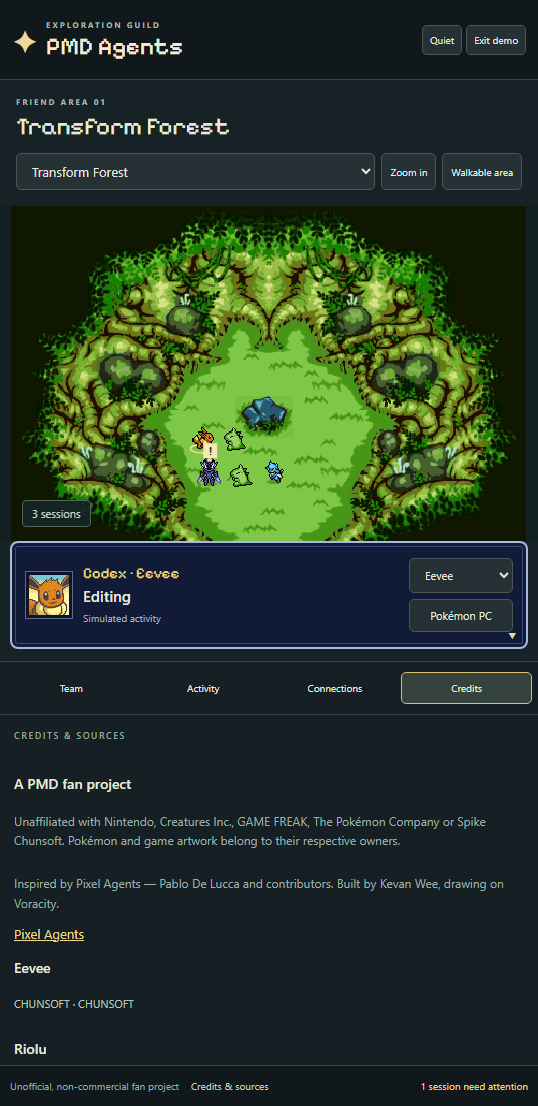
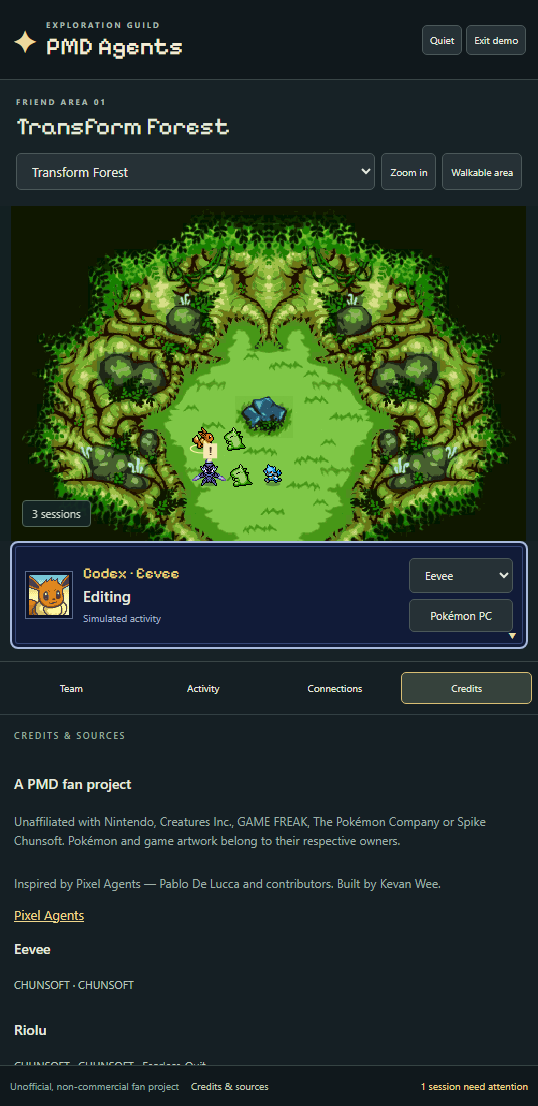
Make PMD Agents self-contained
Download maps and the font from pinned public sources verified by hash,
remove references to the owner's other sites and a local machine path.

diff --git a/src/webview/app.ts b/src/webview/app.ts
@@ -214,7 +214,7 @@ function render() {
  }else{
   sidebar.append(node('div','CREDITS & SOURCES','section-label'),node('h3','A PMD fan project'));
   sidebar.append(node('p','Unaffiliated with Nintendo, Creatures Inc., GAME FREAK, The Pokémon Company or Spike Chunsoft. Pokémon and game artwork belong to their respective owners.','muted'));
-  sidebar.append(node('p','Inspired by Pixel Agents — Pablo De Lucca and contributors. Built by Kevan Wee, drawing on Voracity.','muted'));
+  sidebar.append(node('p','Inspired by Pixel Agents — Pablo De Lucca and contributors. Built by Kevan Wee.','muted'));
   const link=document.createElement('a');link.href='https://github.com/pixel-agents-hq/pixel-agents';link.textContent='Pixel Agents';sidebar.append(link);
   for(const s of [...(pack?.sprites||[]),...(pack?.dummy?[pack.dummy]:[])])sidebar.append(node('h3',s.name),node('p',[...s.artists,...(s.portraitCredits||[])].join(' · '),'credit-text'));
   sidebar.append(node('p','SpriteCollab: individual asset terms are preserved in the local pack. Original game sprites are not automatically covered by the fan-art licence.','muted'));

diff --git a/scripts/import-assets.py b/scripts/import-assets.py
@@ -9,7 +9,6 @@ RAW = f"https://raw.githubusercontent.com/PMDCollab/SpriteCollab/{REV}/"
 ROOT = Path(__file__).resolve().parent.parent
 parser = argparse.ArgumentParser()
 parser.add_argument("--output", default=str(ROOT / "assets/local"))
-parser.add_argument("--voracity", default=str(ROOT.parent / "voracity"))
 args = parser.parse_args()
 out = Path(args.output).resolve()
 out.mkdir(parents=True, exist_ok=True)
@@ -82,21 +81,31 @@ for item in roster+[{"name":"Substitute","number":"0000/0001","element":"normal"
     except Exception as error:
         raise RuntimeError(f"Portrait provenance unavailable for {species}") from error
     manifest["sprites"].append(entry)
-source=Path(args.voracity)
-mapfile=source/"public/pmd/thunder-meadow.png"
-if not mapfile.exists(): raise SystemExit("Supply --voracity with the existing local Voracity checkout")
-save("maps/thunder-meadow.png",mapfile.read_bytes(),"Voracity public/pmd/thunder-meadow.png; Mystery Dungeon Wiki, original game artwork")
-manifest["maps"].append({"id":"meadow","name":"Thunder Meadow","subtitle":"Guild training ground","file":"maps/thunder-meadow.png","width":456,"height":335,"credit":"Pokémon Mystery Dungeon: Red / Blue Rescue Team · game artwork; local Voracity reference, Wiki attribution; ripper not verified"})
-forest=source/"public/eevee-base"
-forest_source=json.loads((forest/"sources.json").read_text(encoding="utf-8"))
-save("maps/transform-forest.png",(forest/"background.png").read_bytes(),forest_source["backgroundUrl"])
-save("maps/forest-stone.png",(forest/"stone-frames.png").read_bytes(),forest_source["rockFramesUrl"])
-records[-1]["changes"]="Existing Voracity crops of 32 original rock poses from JPEG mirror; not lossless source pixels."
-save("sources/transform-forest.json",(forest/"sources.json").read_bytes(),forest_source["originalListing"])
+# Scenery and font come from pinned public sources; each download is checked against its recorded hash.
+MIRROR="https://pamtre-berry.neocities.org/images/"
+FONT="https://raw.githubusercontent.com/eifetx/Pixelify-Sans/39df74aba80df8157546034b878e8be1eb565ced/"
+def fetch(url, target, sha=None):
+    existing = out / target
+    data = existing.read_bytes() if existing.exists() else urlopen(url, timeout=30).read()
+    if sha and hashlib.sha256(data).hexdigest()!=sha: raise SystemExit(f"Unexpected download for {target}: {url}")
+    return save(target, data, url)
[1 lines of base64/hex data omitted]
+buffer=io.BytesIO();meadow.save(buffer,"PNG")
+save("maps/thunder-meadow.png",buffer.getvalue(),MIRROR+"friend-areas/og/thundermeadow.png")
+records[-1]["changes"]="Cropped to 456x335 (bottom row removed)."
+manifest["maps"].append({"id":"meadow","name":"Thunder Meadow","subtitle":"Guild training ground","file":"maps/thunder-meadow.png","width":456,"height":335,"credit":"Pokémon Mystery Dungeon: Red / Blue Rescue Team · game artwork; Pamtre Berry mirror / Taliax; ripper not verified"})
[2 lines of base64/hex data omitted]
+# The mirror sheet holds 32 poses in a 4x8 grid separated by 1px white lines.
+stone=Image.new("RGB",(54*32,39))
+for frame in range(32): stone.paste(rock.crop((1+55*(frame%4),1+40*(frame//4),55+55*(frame%4),40+40*(frame//4))),(54*frame,0))
+buffer=io.BytesIO();stone.save(buffer,"PNG")
+save("maps/forest-stone.png",buffer.getvalue(),MIRROR+"misc/transformforestrock.jpg")
+records[-1]["changes"]="Crops of 32 original rock poses from JPEG mirror, excluding the white grid; not lossless source pixels."
 manifest["maps"].append({"id":"forest","name":"Transform Forest","subtitle":"Animated evolution stone","file":"maps/transform-forest.png","width":480,"height":312,"credit":"Pokémon Mystery Dungeon: Red / Blue Rescue Team · ripper Toastypk · Pamtre Berry mirror / Taliax; original game artwork",
  "layers":[{"file":"maps/forest-stone.png","x":209,"y":177,"w":54,"h":39,"frames":32,"frameMs":120,"credit":"Toastypk · 32 rock poses from Pamtre Berry JPEG mirror; 120ms playback chosen for this project, original game timing unavailable."}]})
-save("PixelifySans.woff2",(source/"public/fonts/PixelifySans.woff2").read_bytes(),"Voracity / Pixelify Sans Project Authors")
-save("PixelifySans-OFL.txt",(source/"public/fonts/PixelifySans-OFL.txt").read_bytes(),"https://github.com/eifetx/Pixelify-Sans")
[2 lines of base64/hex data omitted]
 get("LICENSE.md")
 manifest["files"]=records
 (out/"manifest.json.tmp").write_text(json.dumps(manifest,indent=2)+"\n",encoding="utf-8")

diff --git a/docs/PLAN.md b/docs/PLAN.md
@@ -75,7 +75,7 @@ The extension opens as a dockable VS Code webview, usable in the bottom panel or
  │                                               Pokémon C           │
  ├───────────────────────────────────────────────────────────────────┤
  │ portrait  Codex · Ceruledge        Editing · connected              │
- │           Voracity · current turn      [Focus session] [Details]    │
+ │           my-project · current turn    [Focus session] [Details]    │
  └───────────────────────────────────────────────────────────────────┘
 ```
 
@@ -86,7 +86,7 @@ This is a layout schematic, not a claim that a game map contains those props.
 - Keyboard roster navigation provides every essential action independently of the canvas. Status changes use a throttled live region. Colour is accompanied by text and icons.
 - Attention roster sorts approvals and questions first. Clicking a bubble navigates to the provider's own approval UI; it never grants approval.
 - Character picker shows species, forms, shiny variants, portraits and available animation capabilities. Start with a verified small roster, then expand through asset packs. Preserve assignments across panel hides, resize, provider events and reconnects.
-- Ship an initial roster candidate list: Eevee, Riolu, Pikachu, Treecko, Fuecoco, Charcadet, Ceruledge and Diancie. Exact inclusion depends on animation and attribution audit; availability in Voracity does not imply complete sets.
+- Ship an initial roster candidate list: Eevee, Riolu, Pikachu, Treecko, Fuecoco, Charcadet, Ceruledge and Diancie. Exact inclusion depends on animation and attribution audit; availability elsewhere does not imply complete sets.
 - Empty state shows an empty guild and “No sessions connected,” with connection setup. Any demonstration actors live behind a conspicuous Demo switch and never mix with real sessions.
 - At narrow widths, the map crops/pans, the roster becomes a drawer, and the details card stacks. Do not shrink every Pokémon into unreadable pixels to fit the whole map.
 - Quiet mode and reduced motion retain statuses and still frames while disabling roaming, attack loops, flashes and camera easing. Sound starts off. No soundtrack in the initial release.
@@ -180,7 +180,7 @@ The webview receives a complete revisioned snapshot on startup, then ordered del
 
 ### Sprite ingestion
 
-Import a pinned, reviewed set of PMD SpriteCollab files and their credit records. Reuse the lessons from Voracity's importers rather than copying assumptions from its small portrait renderer.
+Import a pinned, reviewed set of PMD SpriteCollab files and their credit records. Read native animation metadata rather than assuming fixed frame sizes.
 
 The importer must handle per-animation frame width/height, frame durations, direction rows, `CopyOf` aliases, attack timing markers, and available offset/shadow sheets. Resolve aliases with cycle detection. Confirm the source timing convention and row order against known animations; do not blindly treat a duration as milliseconds.
 
@@ -194,7 +194,7 @@ Start with a small complete roster. Lazy-load selected species and the active ma
 
 An image alone is not a usable world. A map manifest contains native dimensions, ground image/layers, foreground occlusion, walkable polygons or grid, obstacles, entrances/exits, activity anchors, facing at anchors, capacity and camera bounds.
 
-Voracity provides two concrete references:
+Two Red/Blue Rescue Team friend areas serve as the first scenes:
 
 - **Transform Forest (480 × 312):** attractive resting/gathering scene, but the central stone and narrow clearing constrain capacity. Preserve its stone exclusion and original coordinate system.
 - **Thunder Meadow (456 × 335):** open training-study candidate with a large central tree and cliff edges. Preserve the tree obstacle; evaluate capacity before selecting it as the default.
@@ -255,13 +255,13 @@ Estimate only after Phase 0. Integration uncertainty, window attribution and art
 7. Forged/malformed events, wrong tokens, untrusted workspace requests and unsafe asset paths are rejected. Fixtures and exports contain no private prompts or credentials.
 8. All sprite directions and actions render without clipping/jitter; attacks face targets and hit effects align with metadata. Routes never cross trees, walls or cliffs.
 9. 320px/480px-wide side panels and a wide editor view keep controls reachable. Keyboard, zoom, reduced motion and hidden-panel behaviour work.
-10. A release package has complete notices, no unresolved bundled assets, no unrelated Voracity material and no debug data.
+10. A release package has complete notices, no unresolved bundled assets, no unrelated material and no debug data.
 
 Use reducer/adapter unit tests for correctness; replay fixtures for end-to-end state; VS Code integration tests for terminals and window lifecycle; browser tests and actual screenshots for rendering. A browser mock does not prove native chat integration. Maintain a dated manual client/version matrix with pass/fail/limited evidence.
 
 ## 10. Recommended first implementation brief
 
-> Implement Phase 0 in this separate project. Read the plan and preserve the archived repository and Voracity. Build the smallest observer that can report real events from the installed Codex chat, Claude Code chat and current-window terminals without exposing chat content. Test window binding rather than guessing from cwd. In a separate replay view, import one complete PMD Pokémon and one existing local map with collision metadata and provenance, and demonstrate Idle, Walk, Attack and attention. Deliver a support matrix, screenshots, sanitized fixtures and a precise gap list. Do not implement the full editor, dungeon game, task orchestration or public distribution yet.
+> Implement Phase 0 in this separate project. Read the plan and preserve the archived repository. Build the smallest observer that can report real events from the installed Codex chat, Claude Code chat and current-window terminals without exposing chat content. Test window binding rather than guessing from cwd. In a separate replay view, import one complete PMD Pokémon and one existing local map with collision metadata and provenance, and demonstrate Idle, Walk, Attack and attention. Deliver a support matrix, screenshots, sanitized fixtures and a precise gap list. Do not implement the full editor, dungeon game, task orchestration or public distribution yet.
 
 The request that produced this document authorizes archive and planning. This brief makes the next implementation step concrete; it is not a record that Phase 0 has already run.
 

diff --git a/tasks/lessons.md b/tasks/lessons.md
@@ -1,11 +1,11 @@
 # Established direction
 
 - 9 October 2026: The owner rejected The Office and requested its archival and a new, fully planned PMD version. A Pokémon skin over office desks does not satisfy the request.
-- Use authentic PMD assets, maps, movement and actions, following Voracity's visual fidelity. Training dummies, sparring and exploration are appropriate work metaphors.
+- Use authentic PMD assets, maps, movement and actions with faithful visual fidelity. Training dummies, sparring and exploration are appropriate work metaphors.
 - Cover Codex chat, Claude Code chat and terminals belonging to the current VS Code instance. Do not quietly reduce this to agents launched by our own button.
 - Preserve truthful limitations: generic terminals expose coarse activity; supported integrations expose richer events. Unknown activity must remain unknown.
 - Carry forward fan-project disclaimers, source links and relevant individual credits.
-- Keep ongoing work in Voracity and the portfolio untouched. This planning project is separate.
+- PMD Agents is a standalone public project (owner, 10 October 2026). Keep it self-contained: no references to, dependencies on or integration plans for the owner's other sites, in files or in Git history.
 - 9 October 2026, follow-up: “Start building it out then” authorizes implementation. Deliver tested increments; the earlier planning-only scope no longer blocks building.
 - 10 October 2026: The owner sees Eevee standing still during Codex thinking/output. Active work must produce visible, restrained movement even when tool semantics are unavailable; do not leave generic Working in a nearly static idle pose. Keep attention and quiet modes still.
 
@@ -14,16 +14,16 @@
 - 10 October 2026: Working should look like PMD training: attack a Substitute dummy with native animations and visible move/hit effects, including generic thinking/output. Reading can scout. Add all nine Gen 1 starter stages now; expand the rest of the Pokédex gradually with original metadata and contributor credits.
 
 
-- 10 October 2026: The user found movement too constrained. Do not reuse Voracity’s conservative single-resident collision box and tiny station patrol as the final guild navigation. Measure the actual clearing, route around obstacles, expose walkable geometry, and import real animated scenery where available.
+- 10 October 2026: The user found movement too constrained. Do not settle for a conservative single-resident collision box and tiny station patrol as the guild navigation. Measure the actual clearing, route around obstacles, expose walkable geometry, and import real animated scenery where available.
 - Automatic discovery and connection should handle normal use without Scan/Connect/Add on every reload. Label workspace-scoped automatic matching honestly, preserve exclusions, and pause automatic claims when guild windows overlap.
 - The user explicitly authorized making pmd-agents public. No additional visibility confirmation is required.
 - The user briefly thought Codex observation was broken, then clarified it was working. Preserve the functioning feed; make the selected journal’s provider clearer instead of diagnosing a nonexistent outage.
-- 10 October 2026: The Pokémon storage system (a PC like the main-series games, National Dex order, forms behind a menu) is built here first; the owner will then judge what transfers to Voracity and the portfolio. Do not add Claude attribution to commits or pull requests in this repository.
+- 10 October 2026: The Pokémon storage system (a PC like the main-series games, National Dex order, forms behind a menu) is built here. Do not add Claude attribution to commits or pull requests in this repository.
 - 10 October 2026: The owner's reference for the PC is the main-series box screen (Generation IV: icons on the right, the selected Pokémon's front sprite and types on the left, actions below). That layout is the primary storage view, using main-series icons and front sprites, not PMD ones; the PMD-portrait layout stays as a toggle. Import all such sprites, not a sample.
 - 10 October 2026: Pokémon should spawn by default for every discovered session; a candidate list is not the default experience. Keep the disclosure (no window-ownership proof) and the overlapping-window pause, but attach first. In the storage system, Guild team belongs in the left column so the box stays browsable while the whole team is dressed.
 - Availability must come from SpriteCollab's own records and the importer's validation of real sheets, never from a static icon list. Recolours carry a completion phase without per-file flags; the phase decides, and the importer still verifies every sheet.
 - 10 October 2026 review: the owner expects a Pokémon with `!` to keep its native Idle animation. Attention pauses travel and attacks, not Idle frames. This refines the earlier “keep attention still” instruction; quiet/reduced motion still freeze animation.
-- Review pushed code and open PRs before merging; green source checks alone do not exercise PC async races or native client behaviour. PC transfer to Kevanwee and Voracity is a design question here, not authorization to replace either site's existing residents or preferences.
+- Review pushed code and open PRs before merging; green source checks alone do not exercise PC async races or native client behaviour.
 - 10 October 2026, screenshot clarification: opening Guild team must replace the selected Pokémon summary on the left while the National Dex box remains on the right. If an installed update still shows the older team-on-right panel, verify the installed bundle and explain that Developer: Reload Window activates it; do not claim installation alone refreshed the running view.
 
 - 10 October 2026: Discovery must work in arbitrary folders and fresh VS Code instances. Never hardcode the current repository or silently widen discovery to all chats on the computer. Show the watched workspace and explain out-of-workspace activity in the empty guild; folder changes must refresh observation automatically.

diff --git a/docs/REVIEW-2026-10-10.md b/docs/REVIEW-2026-10-10.md
@@ -27,34 +27,3 @@ Validation: 61 focused tests with the local pack, TypeScript and production buil
 3. **Full-Dex scale.** Separate catalog metadata from installed animation metadata. Load only the current clearing's sheets; bound decoded-image memory and move decoding off the extension host. Add large-pack, corrupt-cache, disk-full, offline and panel-close tests. A catalog entry being listed is distinct from its full PMD sheet set being validated and usable.
 4. **PC interaction quality.** Keep pending assignments visible; add per-box retry, proper modal focus containment and menu-specific keyboard navigation. Test removed teammates and out-of-order responses as dedicated scenarios. Add artwork-free browser fixtures to CI so interaction failures are caught on every PR.
 5. **World polish.** Richer waiting/approval poses where sheets exist, modest arrival/return animations and crowd spacing. Avoid adding combat/expedition systems until observation and asset recovery are reliable.
-
-## Bring the PC to Kevanwee and Voracity
-
-Port the catalog, selection state and box presentation behind a host interface. Keep agent observation, filesystem imports and VS Code messages in PMD Agents. Main-series front sprites and icons serve the PC; resident and cursor choices require their own validated animation capabilities. A front sprite alone cannot become a walking resident.
-
-```mermaid
-flowchart TD
-    Catalog[Versioned catalog, forms and credits] --> PC[Shared PC selection state and box UI]
-    PC --> Desktop[PMD Agents adapter]
-    PC --> Portfolio[Kevanwee adapter]
-    PC --> Notes[Voracity adapter]
-    Desktop --> Sessions[Assign to agent session]
-    Desktop --> Local[Local asset importer and receipts]
-    Portfolio --> Visitors[Visitor preferences and resident or cursor selection]
-    Notes --> Roster[Existing visit roster and owner preferences]
-    Build[Build-time asset validation] --> Static[Lazy static browser assets]
-    Static --> Portfolio
-    Static --> Notes
-```
-
-The current `PokemonPc` already accepts `PcHost`, but that interface names sessions and sends untyped VS Code messages. Extract a small browser-safe package with a typed target (`agent`, `resident` or `cursor`), stable target ID, selected form ID, capability availability, progress/result callbacks and credit data. Adapt messages and persistence per host. Keep the original vanilla DOM view or wrap its mount/dispose lifecycle in React; neither site needs a second animation engine.
-
-| Host | First useful experience | Integration and constraints |
-| --- | --- | --- |
-| PMD Agents | Current **Guild team** and import/choose workflow | Preserve `src/webview/pc.ts` behaviour through the new interface; session identity remains independent of species. |
-| Kevanwee | A PC under **Make it yours** to choose the visitor's cursor lineup; later choose eligible page residents | `portfolio/src/components/PokemonCursorContext.tsx` already persists cursor/form/lineup preferences in localStorage. `PokemonOverworld.tsx` owns an imperative resident world. Apply targeted changes without rebuilding every resident; preserve Mega/fusion capabilities. Hydrate saved choices after mount, as the current context does. |
-| Voracity | A PC in Settings for cursor lineup and eligible resident replacements | Reuse `src/pokemon/roster.ts` and the existing overworld. Preserve the roster through the visit, mobile density, special companions, and the reserved search pair on initial draws. Carrying and splitting pairs stays the owner's choice. Begin with local preferences; any account sync requires a separately bounded schema/rules change to the existing owner-scoped settings, preserving ownership, membership and revision checks. |
-
-Ship in three increments: (1) extract and contract-test the PC in PMD Agents; (2) add Kevanwee's smaller local-only cursor selector; (3) add Voracity's roster-aware adapter and only then consider preference sync. Each site should offer a curated **usable here** subset while allowing the wider Dex to be browsed. Use static, lazily fetched browser assets prepared by the existing build/import tooling; no paid services or new hosted backend are needed. Preserve fan notices, individual credits and source receipts with the port; local-reference artwork does not automatically become approved for public distribution.
-
-No portfolio or Voracity implementation was changed in this review. Both contained unrelated uncommitted work and were inspected read-only.

diff --git a/docs/ATTRIBUTION.md b/docs/ATTRIBUTION.md
@@ -15,11 +15,11 @@ Place a short “Unofficial fan project · Credits” link in the panel's About 
 | Material | Credit and release treatment |
 | --- | --- |
 | Inspiration and any imported Pixel Agents code | Pablo De Lucca and Pixel Agents contributors; link the repository. For code reuse, retain the complete upstream MIT notice and imported revision |
-| Owner's previous work | Kevan Wee; identify The Office as predecessor and Voracity as the visual/asset-pipeline reference. Do not relicense Voracity's all-rights-reserved source merely because the owner also owns this project |
+| Owner's previous work | Kevan Wee; identify The Office as predecessor |
 | PMD SpriteCollab sprites and portraits | Name individual contributors from each selected sprite/portrait's credit records; link the exact source and [repository](https://github.com/PMDCollab/SpriteCollab). Record applicable licence/history at the pinned revision |
 | SpriteCollab licence | Current repository publishes [CC BY-NC 4.0](https://github.com/PMDCollab/SpriteCollab/blob/master/LICENSE.md). Preserve attribution, licence link and modification notes. This does not license underlying Pokémon IP or unrelated map rips |
 | Transform Forest, if imported | Original ripper **Toastypk**, [Spriters Resource listing](https://www.spriters-resource.com/game_boy_advance/pokemonmysterydungeonredrescueteam/asset/5395/), [Pamtre Berry mirror](https://pamtre-berry.neocities.org/articles/friendareas), game rights holders; retain the original source receipt |
-| Thunder Meadow, if imported | Game title and rights holders, exact source page/file and any supplied ripper credit. Voracity's generic Mystery Dungeon Wiki credit is a starting point; complete the file-level record before release |
+| Thunder Meadow, if imported | Game title and rights holders, [Pamtre Berry mirror](https://pamtre-berry.neocities.org/articles/friendareas) source file and any supplied ripper credit; the original ripper is unverified, so complete the file-level record before release |
 | Additional PMD maps/tiles/UI | Exact game, source file and page, ripper or artist, modifications and usage basis. Do not attribute all maps to SpriteCollab |
 | Pixelify Sans, if bundled | Font authors and included SIL Open Font License; include the actual notice alongside the font |
 | Libraries | Generate third-party notices from actual pinned dependencies, not a speculative list |
@@ -50,4 +50,4 @@ The game view's box icons (`sprites/pokemon/versions/generation-viii/icons/`), f
 
 ## Animated scenery and public source, 0.3.0
 
-The owner authorized public repository visibility on 10 October 2026. Source artwork remains excluded from Git and VSIX; curated demo screenshots remain attributed. Transform Forest imports Voracity’s unmodified background, existing 32-pose stone sheet and source receipt. Original ripper: Toastypk. Mirror: [Pamtre Berry / Taliax](https://pamtre-berry.neocities.org/articles/friendareas). The mirror’s stone poses are JPEG-derived; the importer preserves that limitation and does not call them lossless. Playback at 120ms per pose is this project’s chosen timing because original timing was not supplied. Thunder Meadow breeze lines and navigation polygons are original implementation work, not ripped game weather or collision data.
+The owner authorized public repository visibility on 10 October 2026. Source artwork remains excluded from Git and VSIX; curated demo screenshots remain attributed. Transform Forest imports the mirror's unmodified background and crops its 32-pose stone sheet, with source receipts. Original ripper: Toastypk. Mirror: [Pamtre Berry / Taliax](https://pamtre-berry.neocities.org/articles/friendareas). The mirror’s stone poses are JPEG-derived; the importer preserves that limitation and does not call them lossless. Playback at 120ms per pose is this project’s chosen timing because original timing was not supplied. Thunder Meadow breeze lines and navigation polygons are original implementation work, not ripped game weather or collision data.

diff --git a/README.md b/README.md
@@ -79,11 +79,11 @@ The extension can observe sessions without artwork; the scene needs a complete l
 
 ### Import artwork
 
-Source sheets and game maps are **not included in Git or the VSIX**. The current importer downloads pinned SpriteCollab sheets and reads the Thunder Meadow and Transform Forest maps, stone animation and Pixelify Sans font from a local Voracity checkout. Without those local map/font inputs, obtain a compatible pack first; cloning this repository alone does not provide them.
+Source sheets and game maps are **not included in Git or the VSIX**. The importer downloads pinned SpriteCollab sheets, the Thunder Meadow and Transform Forest maps and stone animation from the Pamtre Berry mirror, and Pixelify Sans from its upstream repository. Each map and font download is checked against a recorded SHA-256 hash; nothing else is needed beyond Python and Pillow.
 
 ```powershell
 python -m pip install Pillow
-python scripts/import-assets.py --voracity "path/to/voracity"
+python scripts/import-assets.py
 ```
 
 The importer writes `assets/local/manifest.json`, original credit records and file hashes. Use `--output` to select another local pack directory. See [asset handling and credits](docs/ATTRIBUTION.md).
@@ -200,7 +200,7 @@ The repository is public. Earlier private-repository Actions jobs were blocked b
 
 The local build has **63 passing focused tests**, plus browser and VS Code integration checks. CI verifies source-only checks, not native provider coverage. See the dated [implementation evidence](docs/IMPLEMENTATION.md) for exact versions and gaps.
 
-See the [0.4.3 code review and PC portability plan](docs/REVIEW-2026-10-10.md) for findings, remaining reliability work and the proposed Kevanwee/Voracity integration.
+See the [0.4.3 code review](docs/REVIEW-2026-10-10.md) for findings and remaining reliability work.
 
 ## Roadmap
 
@@ -222,7 +222,7 @@ The [full plan](docs/PLAN.md) separates delivered work from future proposals. [R
 
 ## Credits and licence
 
-Built by **Kevan Wee**. Inspired by **Pablo De Lucca and the Pixel Agents contributors**; no Pixel Agents source code is copied in this implementation. [The Office](https://github.com/kevanwee/theoffice) is the archived predecessor; Voracity supplied the visual references and local asset-pipeline lessons.
+Built by **Kevan Wee**. Inspired by **Pablo De Lucca and the Pixel Agents contributors**; no Pixel Agents source code is copied in this implementation. [The Office](https://github.com/kevanwee/theoffice) is the archived predecessor.
 
 Sprite/portrait records credit **CHUNSOFT, baronessfaron, Fearless-Quit, Top_Kec, JFain, 0palite, Emboarger, Emmuffin, Grimlin, G〜 and bwappi**, plus contributors recorded upstream as Discord IDs **199989579682414592** and **276175146304405514**, sourced through [PMD SpriteCollab](https://github.com/PMDCollab/SpriteCollab). Pokémon imported through the storage system carry their own contributors from the same credit records into the in-guild Credits view and the local manifest. The storage system's box icons, front sprites and shiny sprites are main-series game artwork (Nintendo, Creatures Inc., GAME FREAK) obtained through the [PokeAPI sprites repository](https://github.com/PokeAPI/sprites) at a pinned revision, and its type data comes from [PokeAPI](https://github.com/PokeAPI/pokeapi) (BSD-3-Clause); both stay in the local pack with receipts. Original game sprites and individual fan-art terms are distinguished in the pack; a repository-wide fan-art licence is not assumed to cover every asset. **Pixelify Sans Project Authors** provide the font under SIL OFL. Transform Forest and its stone frames credit **Toastypk**, with the **Pamtre Berry / Taliax** mirror and original source receipts retained locally. Thunder Meadow is a local game-map reference; its original ripper remains unresolved. Screenshots contain rendered third-party artwork and retain those attributions.
 

diff --git a/docs/IMPLEMENTATION.md b/docs/IMPLEMENTATION.md
@@ -20,7 +20,7 @@ In the storage system, Guild team now replaces the summary panel; selecting a te
 
 ## 0.4.0: the Pokémon storage system
 
-Delivered 10 October 2026. The owner asked for a PC like the main-series games: a living Pokédex in National Dex order where a Pokémon opens a menu for choosing it, its forms, or more detail. It is built here first; transfer to Voracity or the portfolio is a later decision.
+Delivered 10 October 2026. The owner asked for a PC like the main-series games: a living Pokédex in National Dex order where a Pokémon opens a menu for choosing it, its forms, or more detail.
 
 `src/dex.ts` reduces SpriteCollab's `tracker.json` (pinned revision `47e5b99`) to a catalog: 1,025 canon species, 4,021 drawn forms, 3,224 marked ready. Forms are the tracker's own subgroups (shiny, female, alternate), labelled from their names; container nodes are skipped; species whose names collapse to one slug carry their number. *Ready* means the tracker records the sprite set as existing (phase 1 or 2). The tracker's per-file flags were checked against upstream and found unrecorded for every recolour and many older uploads, so the phase decides; the importer still verifies every sheet. A sample of ten unflagged phase-1/2 forms all had the four required sheets upstream; four phase-0 samples had none except one, which the catalog therefore under-reports rather than over-promises.
 
@@ -133,7 +133,7 @@ The sanitized `artifacts/transcript-probe.json` records 29 tool starts, 28 tool 
 
 The importer pins SpriteCollab revision `47e5b9920bc5b2b491c53b18076300dc6813f103`, validates dimensions and directions, resolves aliases, and reads white shadow anchors. [PMD Sprite Format](https://wiki.pmdo.pmdcollab.org/PMD_Sprite_Format) defines durations in 1/60-second units. Source PNGs are unchanged.
 
-Ignored `assets/local` contains the pack, source records, original credit files and SHA-256 receipts. Python and Pillow are required to import it. The existing Voracity map and font are read without modifying Voracity. The map's exact original ripper remains unresolved.
+Ignored `assets/local` contains the pack, source records, original credit files and SHA-256 receipts. Python and Pillow are required to import it. Maps and the font are downloaded from pinned public sources and verified by hash. The map's exact original ripper remains unresolved.
 
 Eevee and Riolu sprite records identify CHUNSOFT with Unspecified licence markers. Ceruledge identifies baronessfaron with historical terms. Portrait records also name Fearless-Quit and Top_Kec. The repository's general CC BY-NC notice is not a claim that every original game sprite is licensed fan art. Artwork is excluded from Git and the VSIX.
 
@@ -147,7 +147,7 @@ The tree silhouette is blocked using authored geometry; no foreground mask is fa
 - Real VS Code: terminal lifecycle, shell command, webview ready and unbound hook candidate.
 - Actual CLI startup probes described above.
 
-Screenshots, probe state and logs stay in ignored `artifacts`. No paid service, global provider setting or existing Voracity file was changed by these tests.
+Screenshots, probe state and logs stay in ignored `artifacts`. No paid service, global provider setting or file outside this project was changed by these tests.
 
 ## Next increment
 

diff --git a/docs/RESEARCH.md b/docs/RESEARCH.md
@@ -51,16 +51,12 @@ Local inventory, without changing configuration:
 
 Directory presence does not prove which version is active or that hooks work. In particular, the Claude CLI and extension differ substantially. No private chats or credential files were inspected. Runtime compatibility remains a Phase 0 deliverable.
 
-## Voracity references inspected
+## Scene references
 
-| Existing material | What it establishes |
+| Material | What it establishes |
 | --- | --- |
-| `public/eevee-base/background.png`, `sources.json` | Transform Forest map, original ripper Toastypk, Spriters Resource listing, Pamtre Berry mirror, hashes |
-| `src/pokemon/eevee-base.ts` | Native 480 × 312 coordinates, measured clearing and stone exclusion, paths rather than unconstrained wandering |
-| `public/pmd/thunder-meadow.png`, `src/pokemon/meadow.ts` | 456 × 335 map, walkable plateau and central tree obstacle; visually inspected |
-| `public/diancie-base/AnimData.xml` | Variable frame dimensions/durations, animation aliases, attack rush/hit/return frame indices |
-| `public/overworld/eevee/` | Existing Walk, Idle, Sleep, Attack, Hurt and additional PMD action sheets |
-| `src/pokemon/PmdSprite.tsx`, `scripts/import-castform.py` | Metadata-driven playback, alpha bounds and motion preferences; not a complete battle/offset importer |
-| `src/pokemon/pmd-ui.css`, `src/Credits.tsx`, `ASSETS.md`, `NOTICE.md` | Navy dialogue panels, Pixelify Sans, attribution sources and fan-project wording |
+| Transform Forest ([Pamtre Berry mirror](https://pamtre-berry.neocities.org/articles/friendareas), ripper Toastypk) | Native 480 × 312 coordinates, a narrow clearing and a central stone exclusion; paths rather than unconstrained wandering |
+| Thunder Meadow (same mirror) | 456 × 335 map, walkable plateau and central tree obstacle; visually inspected |
+| PMD SpriteCollab `AnimData.xml` | Variable frame dimensions/durations, animation aliases, attack rush/hit/return frame indices |
 
-Preserve native artwork and coordinate systems, but do not copy the page-wide DOM resident system into a canvas world. Existing availability is not proof of redistribution permission. The new project has not copied any runtime artwork yet.
+Preserve native artwork and coordinate systems. Public availability is not proof of redistribution permission.

diff --git a/AGENTS.md b/AGENTS.md
@@ -4,7 +4,7 @@ Read `docs/PLAN.md`, `docs/RESEARCH.md`, `docs/ATTRIBUTION.md`, and `tasks/lesso
 
 - The owner authorized implementation on 9 October 2026. Build and validate usable increments; public publishing is separate. See docs/IMPLEMENTATION.md for actual status and remaining gaps.
 - On 10 October 2026 the owner authorized pushing this project to GitHub with a proper README, curated demo screenshots and Mermaid diagrams, then continuing implementation. Keep that repository updated with completed, validated work.
-- Keep this separate from Voracity, the portfolio, and the archived The Office repository. Do not overwrite their assets, settings, or work in progress.
+- PMD Agents is a standalone public project. Keep it self-contained: no references to, imports from or integration plans for the owner's other sites. The archived The Office repository is its predecessor; do not modify it.
 - Use actual PMD sheets and native animation metadata. Keep session status independent of animation.
 - Do not invent provider APIs or report completion based on a timer. Show unsupported, uncertain, disconnected, and ambiguous bindings honestly.
 - The owner authorized public visibility and automatic connection on 10 October 2026. Workspace auto mode is an explicitly labelled scope; directory equality never proves native-window ownership. Pause automatic attachment when guild windows overlap. Preserve direct window tokens and explicit attachments.
